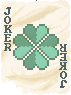
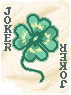
Actualización del sitio

Changed region(s): [[0.169, 0.1263, 0.8451, 0.8842], [0.507, 0.0, 0.5352, 0.0211]]

diff --git a/addjokers.js b/addjokers.js
@@ -2,7 +2,7 @@ let jokers = [
   {
     name: "Yu Sze",
     text: [
-      "Gains {X:mult,C:white}X0.15{} Mult each time a {C:attention}Stone{} card is scored",
+      "Gains {X:mult,C:white}X0.2{} Mult each time a {C:attention}Stone{} card is scored",
     ],
     image_url: "img/j_yusze.png",
     rarity: "Legendary"
@@ -18,9 +18,65 @@ let jokers = [
   },
 
   {
+    name: "Snake",
+    text: [
+      "If your {C:attention}played hand{} has only {C:attention}1{} card {C:attention}+2{} hand size in the current round,", "{C:red}-1{} discard",
+      "{C:inactive}Art by {C:GREEN}BoxWari",
+    ],
+    image_url: "img/j_snake.png",
+    rarity: "Rare"
+  },
+
+  {
+    name: "Souls",
+    text: [
+      "After {C:attention}7{} rounds",
+      "sells this card to",
+      "create a {C:purple}The Soul{} card",
+    ],
+    image_url: "img/j_soul.png",
+    rarity: "Rare"
+  },
+  
+  {
+    name: "Paleta Payaso",
+    text: [
+      "All scored {C:attention}face{} cards have",
+      "{C:green}1 in 2{} chance to convert to another {C:attention}face{} card",
+      "{C:green}1 in 4{} chance to change its {C:attention}Enhancement",
+      "{C:green}1 in 8{} chance to change its {C:attention}Edition",
+    ],
+    image_url: "img/j_paleta_payaso.png",
+    rarity: "Rare"
+  },
+
+  {
+    name: "Moai",
+    text: [
+       "This Joker gains ",
+        "{X:blue,C:white}X0.15{} Chips for destroyed {C:attention}stone{} card",
+        "{C:chips}+25{} Chips for played {C:attention}stone{} card",
+    ],
+    image_url: "img/j_moai.png",
+    rarity: "Rare"
+  },
+
+  {
+    name: "D4C",
+    text: [
+      "If discard hand contain {C:attention}2{}",
+      "cards of the same {C:attention}rank{}",
+      "{C:attention}destroy{} both cards",
+    ],
+    image_url: "img/j_d4c.png",
+    rarity: "Uncommon"
+  },
+
+  {
     name: "Lucky Clover",
     text: [
       "Played {C:attention}Club{} cards have {C:green}1 in 4{} to become {C:attention}Lucky{} cards when scored",
+      "{C:inactive}Art by {C:GREEN}BoxWari",
     ],
     image_url: "img/j_lucky.png",
     rarity: "Uncommon"
@@ -32,6 +88,17 @@ let jokers = [
       "Retrigger all played {C:attention}Stone{} cards",
     ],
     image_url: "img/j_bust.png",
+    rarity: "Uncommon"
+  },
+
+  {
+    name: "Balloon",
+    text: [
+      "{C:attention}+5{} Mult each round",
+      "{C:green}1 in 12{} chance this",
+      "card is destroyed at end of round",
+    ],
+    image_url: "img/j_balloon.png",
     rarity: "Common"
   },
 
@@ -54,6 +121,7 @@ let jokers = [
     image_url: "img/j_reddelicious.png",
     rarity: "Common"
   },
+
 ]
 
 // works the same. 

diff --git a/style.css b/style.css
@@ -30,7 +30,7 @@ main {
   text-align: center;
   color: white;
   padding: 1rem;
-  width: min(60rem, 100%);
+  width: min(90rem, 100%);
   margin: 1rem auto;
   font-size: 1.5rem;
 }
@@ -56,7 +56,7 @@ h1 {
   padding: 1rem;
   border: 2px solid white;
   border-radius: 1rem;
-  width: 15rem;
+  width: 20rem;
 
   background-color: #374244;
 }
